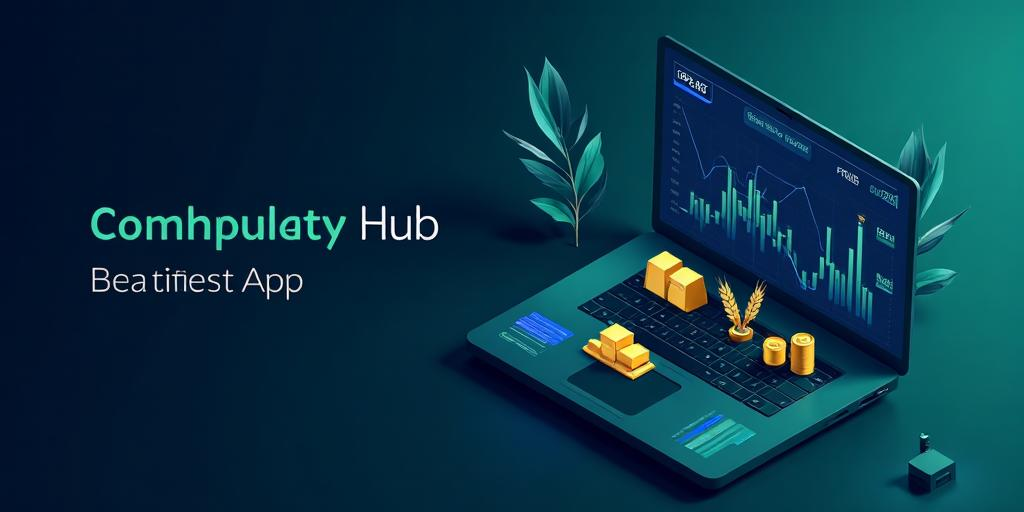
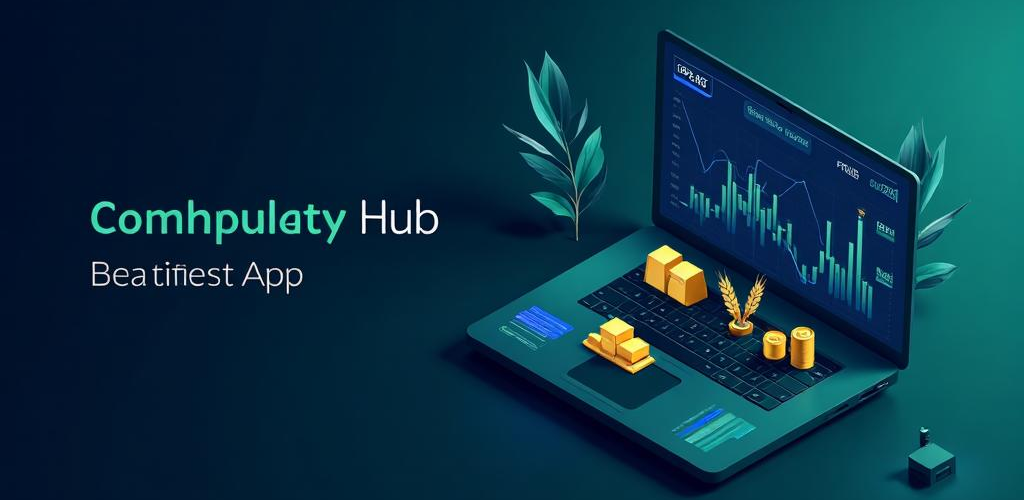
Conversion Pipeline Optimization

diff --git a/src/pages/Today.tsx b/src/pages/Today.tsx
@@ -11,6 +11,7 @@ import { usePriceAlerts, useUndismissedTriggers } from '@/hooks/usePriceAlerts';
 import { useWatchlistItems, useWatchlists } from '@/hooks/useWatchlists';
 import { useLocalStorage } from '@/hooks/useLocalStorage';
 import { formatPrice } from '@/lib/commodityUtils';
+import PremiumPaywall from '@/components/PremiumPaywall';
 
 type PinnedInstrument = { name: string; symbol: string };
 
@@ -24,6 +25,7 @@ const Today: React.FC = () => {
   const { data: alerts = [] } = usePriceAlerts();
   const { data: triggers = [] } = useUndismissedTriggers();
   const [search, setSearch] = React.useState('');
+  const [paywallOpen, setPaywallOpen] = React.useState(false);
   const [pinned, setPinned] = useLocalStorage<PinnedInstrument[]>(`today-pins:${auth?.user?.id ?? 'guest'}`, []);
 
   const commodityByName = useMemo(() => new Map(commodities.map((commodity) => [commodity.name, commodity])), [commodities]);
@@ -64,10 +66,11 @@ const Today: React.FC = () => {
         <section><div className="mb-2 flex items-center justify-between"><div><h2 className="font-semibold">My markets</h2><p className="text-xs text-muted-foreground">Pinned instruments and your default watchlist</p></div><Button variant="ghost" size="sm" onClick={() => navigate('/watchlists')}>Edit</Button></div>
           {isLoading ? <Card><CardContent className="py-8 text-center text-sm text-muted-foreground">Loading verified prices…</CardContent></Card> : error ? <Card><CardContent className="py-8 text-center text-sm text-destructive">Market data is unavailable. Pull to refresh or try again shortly.</CardContent></Card> : visible.length ? <div className="space-y-2">{visible.map((commodity) => commodity && <Card key={commodity.symbol} className="mobile-card"><CardContent className="flex items-center gap-3 py-3"><button type="button" className="min-w-0 flex-1 text-left" onClick={() => openCommodity(commodity.name)}><p className="truncate text-sm font-semibold">{commodity.name}</p><p className="text-xs text-muted-foreground">{commodity.symbol}</p></button><div className="text-right"><p className="font-mono text-sm font-semibold">{commodity.price > 0 ? formatPrice(commodity.price, commodity.name) : '—'}</p><p className={`flex items-center justify-end gap-1 text-xs ${commodity.changePercent >= 0 ? 'text-[hsl(var(--success))]' : 'text-destructive'}`}>{commodity.changePercent >= 0 ? <TrendingUp className="h-3 w-3" /> : <TrendingDown className="h-3 w-3" />}{commodity.changePercent.toFixed(2)}%</p></div><Button variant="ghost" size="icon" className="h-9 w-9" onClick={() => togglePin(commodity.name, commodity.symbol)} aria-label={`Unpin ${commodity.name}`}><Star className="h-4 w-4 fill-primary text-primary" /></Button></CardContent></Card>)}</div> : <Card><CardContent className="py-6"><p className="text-sm font-medium">Pin your first market</p><p className="mt-1 text-xs text-muted-foreground">Search above to add up to five instruments to Today.</p></CardContent></Card>}</section>
 
-        <section><div className="mb-2 flex items-center justify-between"><div><h2 className="font-semibold">Alert status</h2><p className="text-xs text-muted-foreground">Monitor your active market levels</p></div><Button variant="ghost" size="sm" onClick={() => navigate('/alerts')}>View all</Button></div><Card><CardContent className="flex items-center justify-between py-4"><div><p className="text-sm font-medium">{alerts.filter((alert) => alert.is_active).length} active alert{alerts.filter((alert) => alert.is_active).length === 1 ? '' : 's'}</p><p className="text-xs text-muted-foreground">Only verified source prices can trigger alerts.</p></div><Button size="sm" onClick={() => navigate('/alerts')}>Manage</Button></CardContent></Card></section>
+        <section><div className="mb-2 flex items-center justify-between"><div><h2 className="font-semibold">Alert status</h2><p className="text-xs text-muted-foreground">Monitor your active market levels</p></div><Button variant="ghost" size="sm" onClick={() => navigate('/alerts')}>View all</Button></div><Card><CardContent className="flex items-center justify-between py-4"><div><p className="text-sm font-medium">{alerts.filter((alert) => alert.is_active).length} active alert{alerts.filter((alert) => alert.is_active).length === 1 ? '' : 's'}</p><p className="text-xs text-muted-foreground">Only verified source prices can trigger alerts.</p></div>{auth?.isPremium ? <Button size="sm" onClick={() => navigate('/alerts')}>Manage</Button> : alerts.filter((alert) => alert.is_active).length > 0 ? <Button size="sm" onClick={() => setPaywallOpen(true)}>Get 10 alerts</Button> : <Button size="sm" onClick={() => navigate('/alerts')}>Set one up</Button>}</CardContent></Card></section>
 
         <section><div className="mb-2 flex items-center justify-between"><div><h2 className="font-semibold">Pro signals</h2><p className="text-xs text-muted-foreground">Daily brief, regimes, spreads, and portfolio risk</p></div>{auth?.isPro && <Badge>Pro</Badge>}</div><Card className={auth?.isPro ? '' : 'border-primary/30 bg-primary/5'}><CardHeader className="pb-2"><CardTitle className="flex items-center gap-2 text-base">{auth?.isPro ? 'Your professional toolkit' : <><Crown className="h-4 w-4 text-primary" />Upgrade your market context</>}</CardTitle><CardDescription>{auth?.isPro ? 'Start with today’s signal feed or drill into a specialist tool.' : 'Get source-backed Daily Briefs, regime scans, spreads, and portfolio analytics.'}</CardDescription></CardHeader><CardContent><Button variant={auth?.isPro ? 'outline' : 'default'} className="w-full" onClick={() => navigate(auth?.isPro ? '/daily-brief' : '/account-settings')}>{auth?.isPro ? 'Open Daily Brief' : 'Explore Pro'}</Button></CardContent></Card></section>
       </main>
+      <PremiumPaywall open={paywallOpen} onOpenChange={setPaywallOpen} source="today_alert_limit" />
     </div>
   );
 };

diff --git a/src/components/PremiumPaywall.tsx b/src/components/PremiumPaywall.tsx
@@ -27,6 +27,8 @@ import type { PurchasesOffering, PurchasesPackage } from '@revenuecat/purchases-
 interface PremiumPaywallProps {
   open: boolean;
   onOpenChange: (open: boolean) => void;
+  /** The feature or moment that prompted the upgrade conversation. */
+  source?: string;
 }
 
 const PREMIUM_FEATURES = [
@@ -49,7 +51,7 @@ const PRO_FEATURES = [
 const PLAY_STORE_URL =
   'https://play.google.com/store/apps/details?id=com.commodityhub.app';
 
-const PremiumPaywall: React.FC<PremiumPaywallProps> = ({ open, onOpenChange }) => {
+const PremiumPaywall: React.FC<PremiumPaywallProps> = ({ open, onOpenChange, source = 'unknown' }) => {
   const { toast } = useToast();
   const auth = useAuth();
   const { isNative } = usePlatform();
@@ -64,6 +66,7 @@ const PremiumPaywall: React.FC<PremiumPaywallProps> = ({ open, onOpenChange }) =
     monitoringService.trackUserEvent('paywall_viewed', {
       is_native: isNative,
       tier,
+      source,
     });
   }, [open, isNative, tier]);
 
@@ -76,13 +79,18 @@ const PremiumPaywall: React.FC<PremiumPaywallProps> = ({ open, onOpenChange }) =
       await configureRevenueCat(auth?.user?.id ?? null);
       const current = await getOfferings();
       setOffering(current);
+      monitoringService.trackUserEvent('paywall_offering_loaded', {
+        source,
+        premium_packages: current?.availablePackages.filter((pkg) => pkg.product.identifier.startsWith('premium_lite')).length ?? 0,
+        pro_packages: current?.availablePackages.filter((pkg) => !pkg.product.identifier.startsWith('premium_lite')).length ?? 0,
+      });
       setLoading(false);
     })();
   }, [open, auth?.user?.id]);
 
   const handlePurchase = async (pkg: PurchasesPackage) => {
     setPurchasing(pkg.identifier);
-    const result = await purchasePackage(pkg);
+    const result = await purchasePackage(pkg, { paywall_source: source, tier_target: pkg.product.identifier.startsWith('premium_lite') ? 'premium' : 'pro' });
     setPurchasing(null);
 
     if (result.success) {
@@ -203,7 +211,7 @@ const PremiumPaywall: React.FC<PremiumPaywallProps> = ({ open, onOpenChange }) =
             <DialogTitle>Upgrade Commodity Hub</DialogTitle>
           </div>
           <DialogDescription>
-            Unlock price alerts, multi-portfolio tracking, CSV exports, and the full procurement-grade catalog.
+            Start with Premium at $6.99/month for more alerts, exports, and portfolios. Move to Pro when you need advanced analytics.
           </DialogDescription>
         </DialogHeader>
 
@@ -245,9 +253,12 @@ const PremiumPaywall: React.FC<PremiumPaywallProps> = ({ open, onOpenChange }) =
                 </div>
                 <Button
                   className="w-full"
-                  onClick={() => window.open(PLAY_STORE_URL, '_blank', 'noopener,noreferrer')}
+                  onClick={() => {
+                    monitoringService.trackUserEvent('paywall_download_cta_tapped', { source });
+                    window.open(PLAY_STORE_URL, '_blank', 'noopener,noreferrer');
+                  }}
                 >
-                  Get the Android app
+                  Get Premium on Android
                 </Button>
               </>
             )}

diff --git a/src/components/PremiumUpsellCard.tsx b/src/components/PremiumUpsellCard.tsx
@@ -1,13 +1,11 @@
 import React from 'react';
-import { Lock, Factory, Zap, Gem, Wheat, Coffee, Beef, Smartphone } from 'lucide-react';
+import { Lock, Factory, Zap, Gem, Wheat, Coffee, Beef } from 'lucide-react';
 import { Card, CardDescription, CardHeader, CardTitle } from '@/components/ui/card';
 import { Button } from '@/components/ui/button';
 import { Badge } from '@/components/ui/badge';
 import PremiumPaywall from '@/components/PremiumPaywall';
 import { usePlatform } from '@/hooks/usePlatform';
-
-const PLAY_STORE_URL =
-  'https://play.google.com/store/apps/details?id=com.commodityhub.app';
+import { monitoringService } from '@/services/monitoringService';
 
 type UpsellVariant = 'energy' | 'industrials' | 'metals' | 'grains' | 'softs' | 'livestock';
 
@@ -58,9 +56,13 @@ const PremiumUpsellCard: React.FC<PremiumUpsellCardProps> = ({ onUpgrade, varian
   const { title, description, Icon } = COPY[variant];
   const { isNative } = usePlatform();
 
+  React.useEffect(() => {
+    monitoringService.trackUserEvent('upsell_impression', { placement: 'catalog', variant, is_native: isNative });
+  }, [isNative, variant]);
+
   const handleClick = () => {
+    monitoringService.trackUserEvent('upsell_cta_tapped', { placement: 'catalog', variant, is_native: isNative });
     if (onUpgrade) onUpgrade();
-    else if (!isNative) window.open(PLAY_STORE_URL, '_blank', 'noopener,noreferrer');
     else setPaywallOpen(true);
   };
 
@@ -84,19 +86,19 @@ const PremiumUpsellCard: React.FC<PremiumUpsellCardProps> = ({ onUpgrade, varian
                     One subscription unlocks every premium benchmark across all groups, with transparent <strong>LIVE</strong> / <strong>EOD</strong> / <strong>REF</strong> sourcing labels on each market.
                   </span>
                   <span className="block mt-1 font-medium text-foreground">
-                    $19.99/mo or $149/yr — save ~38% annually
+                    Premium starts at $6.99/mo for alerts, exports, and up to 3 portfolios. Pro adds advanced analytics.
                   </span>
                 </CardDescription>
               </div>
             </div>
             <Button size="sm" onClick={handleClick} className="flex-shrink-0">
               {isNative ? <Lock className="w-3.5 h-3.5" /> : <Smartphone className="w-3.5 h-3.5" />}
-              {isNative ? 'Upgrade to Premium' : 'Get the Android app'}
+              {isNative ? 'See plans' : 'See plans'}
             </Button>
           </div>
         </CardHeader>
       </Card>
-      <PremiumPaywall open={paywallOpen} onOpenChange={setPaywallOpen} />
+      <PremiumPaywall open={paywallOpen} onOpenChange={setPaywallOpen} source={`catalog_${variant}`} />
     </>
   );
 };

diff --git a/src/pages/TermsOfService.tsx b/src/pages/TermsOfService.tsx
@@ -29,7 +29,7 @@ const TermsOfService = () => {
                 <FileText className="h-6 w-6 text-primary" />
                 <CardTitle>Terms of Service</CardTitle>
               </div>
-              <CardDescription>Last updated: {new Date().toLocaleDateString()}</CardDescription>
+              <CardDescription>Last updated: July 18, 2026</CardDescription>
             </CardHeader>
             <CardContent className="space-y-6 prose prose-sm dark:prose-invert max-w-none">
               <section>
@@ -87,7 +87,7 @@ const TermsOfService = () => {
 
               <section>
                 <h2 className="text-lg font-semibold mb-2">7. Contact</h2>
-                <p>For questions, contact support@commodityhub.app.</p>
+                <p>For questions, contact support@commodityhub.com.</p>
               </section>
             </CardContent>
           </Card>

diff --git a/src/services/revenueCat.ts b/src/services/revenueCat.ts
@@ -83,6 +83,7 @@ export const getOfferings = async (): Promise<PurchasesOffering | null> => {
 
 export const purchasePackage = async (
   pkg: PurchasesOffering['availablePackages'][number],
+  context: Record<string, unknown> = {},
 ): Promise<{ success: boolean; customerInfo?: CustomerInfo; error?: string }> => {
   const pkgProps = {
     package_id: pkg.identifier,
@@ -90,6 +91,7 @@ export const purchasePackage = async (
     price: pkg.product.price,
     currency: pkg.product.currencyCode,
     period: pkg.packageType,
+    ...context,
   };
   trackPurchaseEvent('purchase_started', pkgProps);
   try {

diff --git a/src/components/app-store/AppStoreAssets.tsx b/src/components/app-store/AppStoreAssets.tsx
@@ -152,7 +152,7 @@ export const PLAY_STORE_METADATA = {
   website: "https://commodity-hub.lovableproject.com",
   email: "support@commodityhub.com",
   privacyPolicy: "https://commodity-hub.lovable.app/privacy-policy",
-  termsOfService: "https://commodity-hub.lovableproject.com/terms-of-service",
+  termsOfService: "https://commodity-hub.lovable.app/terms-of-service",
   category: "Finance",
   contentRating: "Teen", // 13+ due to financial content
   countries: ["US", "CA", "GB", "AU", "DE", "FR", "JP", "SG"],

diff --git a/docs/CONVERSION_PIPELINE.md b/docs/CONVERSION_PIPELINE.md
@@ -1,0 +1,47 @@
+# Conversion Pipeline
+
+Last updated: 2026-07-18
+
+## Goal
+
+Move free users from a useful first outcome to a paid workflow without hiding core market discovery.
+
+1. **Activation:** search, pin a market, or create one alert.
+2. **Habit:** return to Today, review an alert, or monitor a watchlist.
+3. **High-intent upgrade:** show a plan when the user needs more alert capacity, a premium benchmark, export, or advanced analysis.
+4. **Purchase:** present Premium first ($6.99/month), then Pro only where advanced workflows are relevant.
+5. **Retention:** send users to their alert, portfolio, or Daily Brief immediately after purchase.
+
+## Funnel events
+
+The app emits these through `monitoringService`. Before relying on the metrics,
+route that service to a production analytics destination (for example, a
+first-party Supabase event endpoint or a configured product-analytics tool).
+Until then, events remain in the client monitoring queue and are not a durable
+source of truth.
+
+| Event | Meaning | Primary breakdown |
+|---|---|---|
+| `upsell_impression` | A catalog upgrade card was visible | `variant`, `placement`, `is_native` |
+| `upsell_cta_tapped` | User asked to see plans | `variant`, `placement`, `is_native` |
+| `paywall_viewed` | Plan dialog opened | `source`, `tier`, `is_native` |
+| `paywall_offering_loaded` | RevenueCat packages were available | `source`, package counts |
+| `paywall_download_cta_tapped` | Web user chose the Android handoff | `source` |
+| `purchase_started` | Store purchase flow opened | `paywall_source`, `tier_target`, product and price |
+| `purchase_succeeded` / `purchase_cancelled` / `purchase_failed` | Store outcome | product, price, failure code where applicable |
+
+Review these weekly as a funnel: `paywall_viewed → purchase_started → purchase_succeeded`. Segment by `source` before changing copy or prices.
+
+## First experiments
+
+1. **Alert-limit moment:** compare “Get 10 alerts” with “Never miss a level” after a free user creates their first alert. Success metric: purchase starts per alert-active user.
+2. **Catalog moment:** compare group-specific benchmark copy with a compact “Full catalog + exports” card. Success metric: paywall opens per catalog session.
+3. **Plan order:** keep Premium first for alert/export intent; show Pro first only for analytics/API intent. Success metric: purchase completion, not just CTA clicks.
+4. **Annual presentation:** once RevenueCat packages are confirmed, label the annual package with the exact effective monthly price and saving. Do not claim a discount that does not match the active offering.
+
+## Operating rules
+
+- Keep the first alert, one portfolio, and market search free: they are activation mechanics.
+- Gate additional capacity and repeatable workflows, not basic price discovery.
+- Do not change pricing, entitlements, or purchase products in code without matching RevenueCat and Play Console configuration.
+- Review purchase failures by product and device before running price experiments.

diff --git a/docs/PRELAUNCH_CHECKLIST.md b/docs/PRELAUNCH_CHECKLIST.md
@@ -1,6 +1,6 @@
 # Commodity Hub — Pre-Launch Checklist
 
-Last refreshed: 2026-06-24. Tick each item before promoting a build to Google Play production.
+Last refreshed: 2026-07-18. Tick each item before promoting a build to Google Play production.
 
 ---
 
@@ -63,8 +63,8 @@ Last refreshed: 2026-06-24. Tick each item before promoting a build to Google Pl
 ## 3. Technical Readiness
 
 - [ ] `npm run build` clean (no warnings introduced this release)
-- [ ] `npm run lint` passes
-- [ ] `npm test` / Vitest suite green
+- [x] `npm run lint` passes
+- [x] `npm test` / Vitest suite green
 - [ ] Playwright e2e (`tests/e2e/`) green against preview
 - [ ] Lighthouse score ≥ 90 on Performance, Accessibility, Best Practices, SEO
 - [ ] No `console.error` on cold load (check `useCapacitorAuthDeepLink`, RealtimeDataContext)
